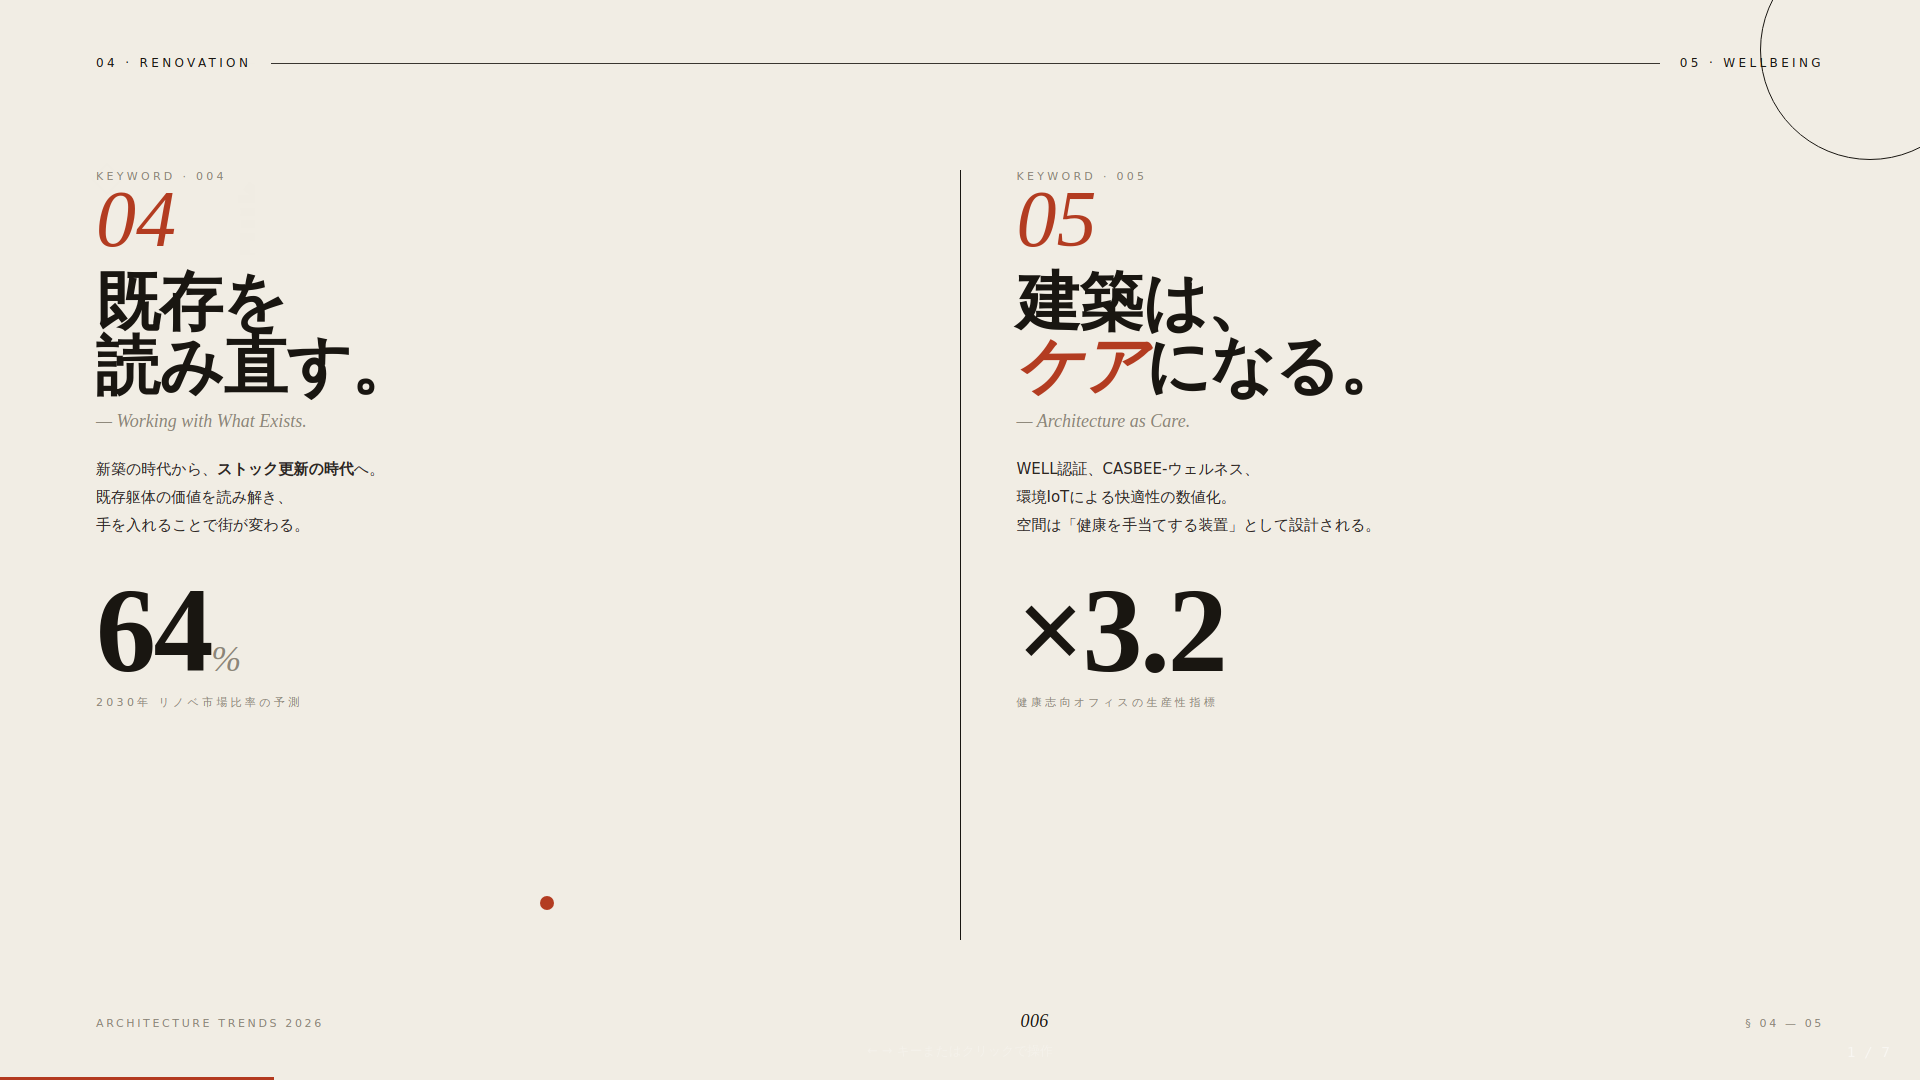
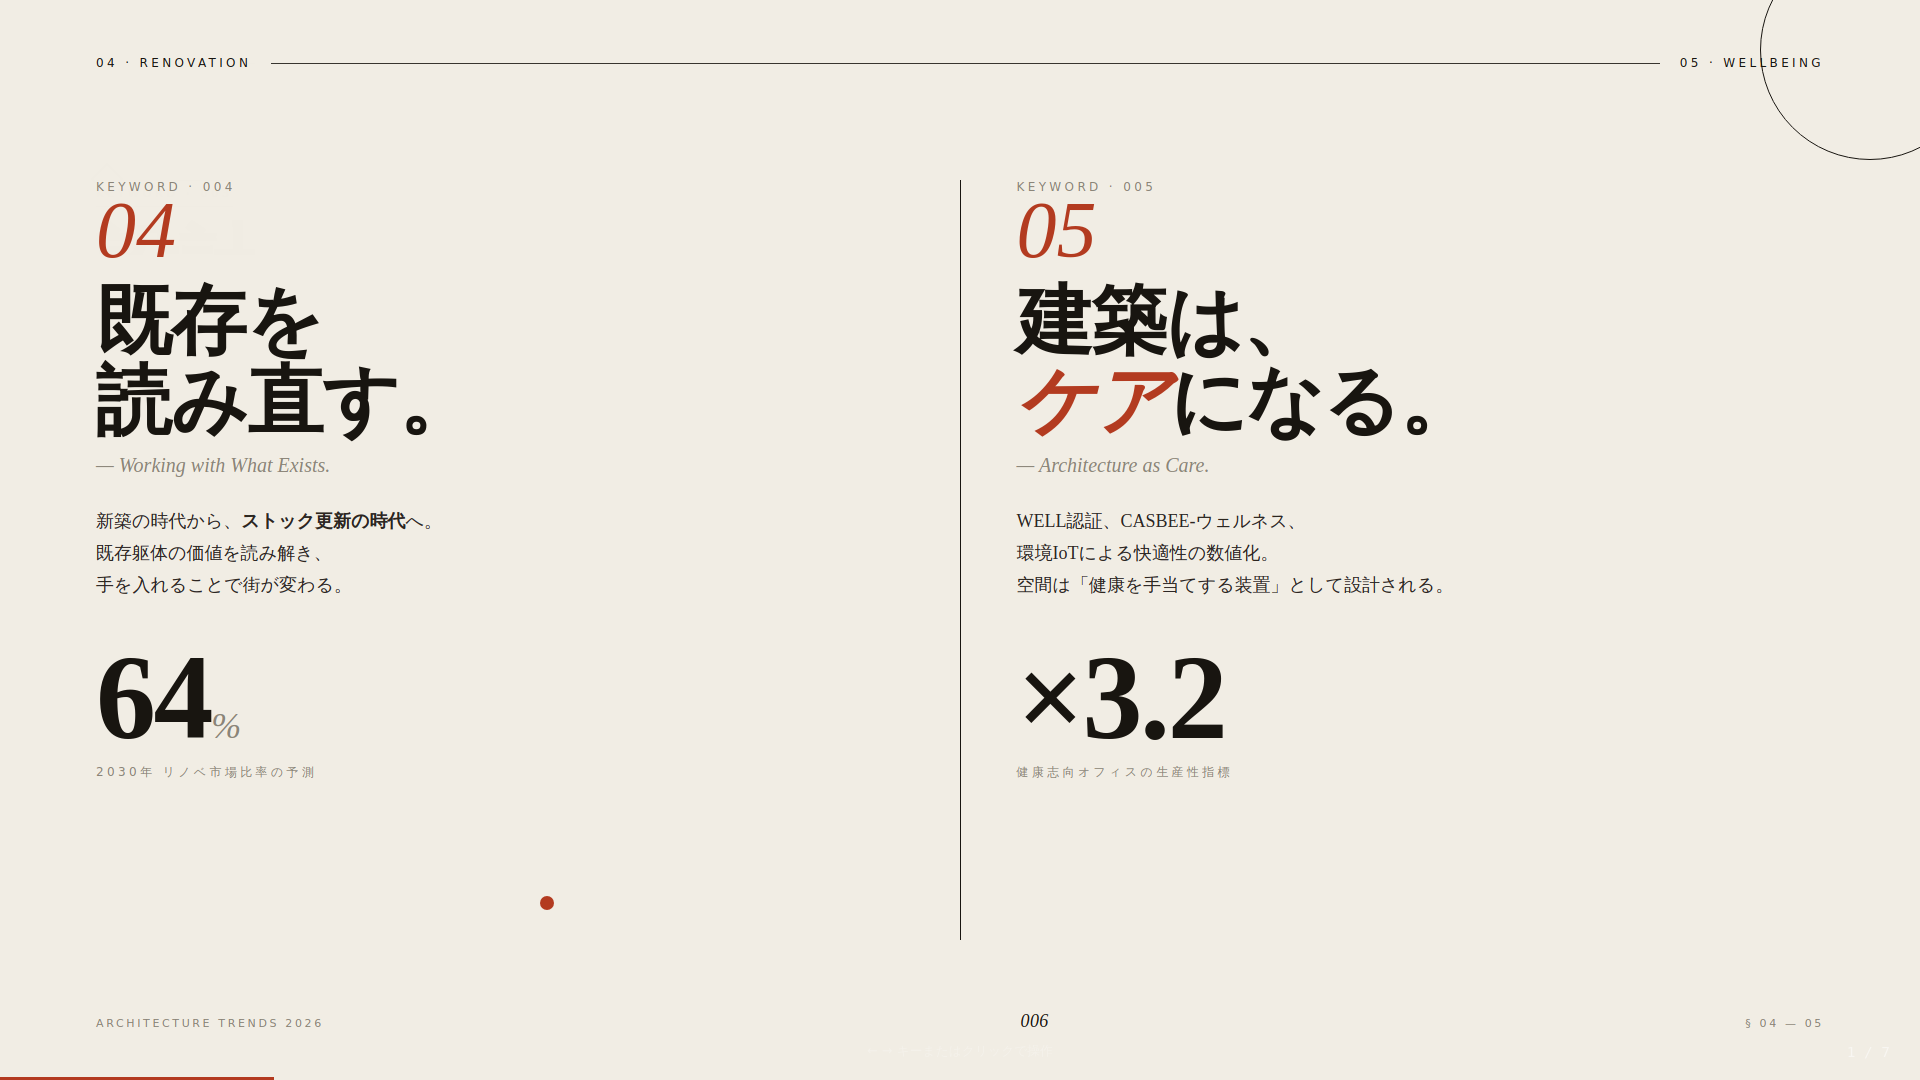
指摘を反映して全スライド整理
- :root に --pad-x/--body-top/--wm-opacity/--line 等の統一変数を追加
- 表紙: № 2026 重複を削除、h1 220px→180px に縮小、sublock は serif 20px で border-top 付き
- 目次: カラム幅詰め、ページ番号 13px uppercase → 24px serif italic に拡大
- 01/02/03 ウォーターマーク透明度を 0.12 で統一
- 全 feature スライドの h2.section を 84px・max-width 1100px で統一
- 02: タイムラインと 18階 に bridge caption を追加、関係性を明示
- 03: 締めコピーを赤アクセント縦ラインで本文と接続、孤立感を解消
- 04/05 spread: h3 を 64→76px で feature 並みに、本文 serif 18px に昇格
- 締め: クレジット重複を整理、1本の rule 線で区切った credit 行に統合
- 棒グラフ、タイムライン、stat 本文を 14-15→16-18px に引き上げ

diff --git a/slides/architecture2026.html b/slides/architecture2026.html
@@ -20,6 +20,13 @@
       --rule:#1a1714;
       --accent:#b33a1f;         /* burnt brick */
       --accent-soft:#e1c9b7;
+      --pad-x:96px;             /* horizontal frame padding */
+      --pad-y:72px;
+      --body-top:180px;         /* top of .body under masthead */
+      --body-bottom:140px;      /* bottom of .body above folio */
+      --wm-opacity:0.12;        /* consistent watermark opacity */
+      --line:1px solid var(--ink);
+      --line-thick:3px solid var(--ink);
       --font-serif:'Noto Serif JP','Playfair Display','Hiragino Mincho ProN','Yu Mincho','YuMincho',serif;
       --font-sans:'Inter','Noto Sans JP','Hiragino Sans','Yu Gothic',system-ui,sans-serif;
     }
@@ -27,11 +34,11 @@
     body{font-family:var(--font-sans);}
 
     .slide, .slide--title, .slide--section{background:var(--paper) !important;}
-    .slide-inner{background:var(--paper) !important;padding:72px 96px;color:var(--ink);}
+    .slide-inner{background:var(--paper) !important;padding:var(--pad-y) var(--pad-x);color:var(--ink);}
 
-    /* Masthead / running header */
+    /* Masthead / running header — unified */
     .masthead{
-      position:absolute;top:56px;left:96px;right:96px;
+      position:absolute;top:56px;left:var(--pad-x);right:var(--pad-x);
       display:flex;justify-content:space-between;align-items:center;
       font-family:var(--font-sans);
       font-size:12px;letter-spacing:0.28em;text-transform:uppercase;
@@ -39,7 +46,7 @@
     }
     .masthead .rule{flex:1;height:1px;background:var(--ink);margin:0 20px;opacity:0.85;}
     .folio{
-      position:absolute;bottom:48px;left:96px;right:96px;
+      position:absolute;bottom:48px;left:var(--pad-x);right:var(--pad-x);
       display:flex;justify-content:space-between;align-items:baseline;
       font-family:var(--font-sans);
       font-size:11px;letter-spacing:0.24em;text-transform:uppercase;color:var(--muted);
@@ -95,88 +102,91 @@
 
     /* ------- Slide 1 : Cover ------- */
     .cover .slide-inner{padding:0;}
-    .cover .masthead{color:var(--ink);}
     .cover .title-block{
-      position:absolute;left:96px;top:220px;right:96px;
+      position:absolute;left:var(--pad-x);top:240px;right:var(--pad-x);
     }
     .cover .eyebrow{
-      font-family:var(--font-serif);font-style:italic;font-size:32px;color:var(--accent);
-      margin-bottom:16px;
+      font-family:var(--font-serif);font-style:italic;font-size:30px;color:var(--accent);
+      margin-bottom:20px;
     }
     .cover h1{
       font-family:var(--font-serif);font-weight:900;
-      font-size:220px;line-height:0.88;letter-spacing:-0.02em;
+      font-size:180px;line-height:0.9;letter-spacing:-0.02em;
       color:var(--ink);
     }
-    .cover h1 .small{font-size:120px;font-style:italic;font-weight:400;}
+    .cover h1 .yr{font-family:var(--font-serif);font-style:italic;font-weight:400;
+      font-size:100px;color:var(--accent);margin-left:10px;}
     .cover .latin{
       font-family:var(--font-serif);font-style:italic;font-weight:400;
-      font-size:64px;color:var(--ink);margin-top:18px;letter-spacing:-0.01em;
+      font-size:56px;color:var(--ink);margin-top:16px;letter-spacing:-0.01em;
     }
     .cover .subblock{
-      position:absolute;left:96px;bottom:160px;max-width:520px;
-      font-family:var(--font-sans);font-size:16px;line-height:1.8;color:#3a342c;
+      position:absolute;left:var(--pad-x);bottom:160px;max-width:560px;
+      font-family:var(--font-serif);font-size:20px;line-height:1.8;color:#2b251e;
+      border-top:var(--line);padding-top:18px;
     }
     .cover .issue{
-      position:absolute;right:96px;bottom:160px;text-align:right;
-      font-family:var(--font-serif);font-style:italic;color:var(--ink);
+      position:absolute;right:var(--pad-x);bottom:160px;text-align:right;
+      font-family:var(--font-sans);color:var(--muted);
+      font-size:12px;letter-spacing:0.28em;text-transform:uppercase;line-height:2;
     }
-    .cover .issue .no{font-size:92px;line-height:0.9;font-weight:400;}
-    .cover .issue .d{font-family:var(--font-sans);font-style:normal;font-size:12px;
-      letter-spacing:0.34em;text-transform:uppercase;color:var(--muted);margin-top:10px;}
 
     /* ------- Slide 2 : Contents ------- */
     .contents .body{
-      position:absolute;left:96px;right:96px;top:180px;bottom:140px;
-      display:grid;grid-template-columns:260px 1fr;gap:80px;
+      position:absolute;left:var(--pad-x);right:var(--pad-x);top:var(--body-top);bottom:var(--body-bottom);
+      display:grid;grid-template-columns:240px 1fr;gap:56px;
     }
     .contents .left h2{
       font-family:var(--font-serif);font-weight:400;font-style:italic;
-      font-size:64px;line-height:1;color:var(--ink);margin-bottom:36px;
+      font-size:56px;line-height:1;color:var(--ink);margin-bottom:20px;
     }
-    .contents .left p{font-size:14px;line-height:1.9;color:#3a342c;max-width:230px;}
-    .toc{border-top:1px solid var(--ink);}
+    .contents .left p{font-family:var(--font-serif);font-size:16px;line-height:1.85;color:#2b251e;max-width:220px;}
+    .toc{border-top:var(--line);align-self:start;}
     .toc .row{
-      display:grid;grid-template-columns:96px 1fr 160px;
-      gap:32px;align-items:baseline;
-      padding:28px 0;border-bottom:1px solid var(--ink);
+      display:grid;grid-template-columns:88px 1fr 110px;
+      gap:28px;align-items:baseline;
+      padding:22px 0;border-bottom:var(--line);
     }
     .toc .n{
       font-family:var(--font-serif);font-style:italic;font-weight:400;
-      font-size:72px;line-height:0.9;color:var(--ink);
+      font-size:64px;line-height:0.9;color:var(--ink);
     }
     .toc .t .ja{
-      font-family:var(--font-serif);font-weight:800;font-size:38px;line-height:1.15;color:var(--ink);
+      font-family:var(--font-serif);font-weight:800;font-size:36px;line-height:1.15;color:var(--ink);
     }
     .toc .t .en{
       font-family:var(--font-serif);font-style:italic;font-size:18px;color:var(--muted);
       margin-top:6px;letter-spacing:0.01em;
     }
     .toc .pg{
-      font-family:var(--font-sans);font-size:13px;letter-spacing:0.3em;text-transform:uppercase;
-      color:var(--muted);text-align:right;
+      font-family:var(--font-serif);font-style:italic;font-size:24px;
+      color:var(--ink);text-align:right;letter-spacing:0;
     }
-    .toc .row:first-child{border-top:3px solid var(--ink);}
+    .toc .row:first-child{border-top:var(--line-thick);}
 
     /* ------- Sectional feature slides ------- */
-    .feature .body{position:absolute;left:96px;right:96px;top:170px;bottom:140px;z-index:2;}
+    .feature .body{position:absolute;left:var(--pad-x);right:var(--pad-x);top:var(--body-top);bottom:var(--body-bottom);z-index:2;}
     /* Giant section number sits as a decorative watermark BEHIND content */
     .feature .numtag{
-      position:absolute;right:40px;top:60px;
+      position:absolute;right:40px;top:80px;
       font-family:var(--font-serif);font-style:italic;font-weight:400;
-      font-size:560px;line-height:0.78;color:var(--accent);
-      opacity:0.14;                    /* watermark, not foreground */
+      font-size:520px;line-height:0.78;color:var(--accent);
+      opacity:var(--wm-opacity);        /* unified */
       pointer-events:none;z-index:0;
       letter-spacing:-0.04em;
     }
     .feature h2.section{
       font-family:var(--font-serif);font-weight:900;
-      font-size:84px;line-height:1.05;color:var(--ink);
-      max-width:900px;letter-spacing:-0.015em;
+      font-size:84px;line-height:1.08;color:var(--ink);
+      max-width:1100px;letter-spacing:-0.015em;
     }
     .feature .en{
       font-family:var(--font-serif);font-style:italic;font-size:22px;color:var(--muted);
-      margin-top:10px;
+      margin-top:12px;
+    }
+    .feature .lede{
+      font-family:var(--font-serif);font-size:22px;line-height:1.75;color:#2b251e;
+      max-width:820px;
     }
 
     /* ------- Slide 3 : 01 Carbon ------- */
@@ -189,95 +199,103 @@
       display:grid;grid-template-columns:1fr 1fr;gap:8px 64px;
     }
     .s-carbon .infobox .cap-full{grid-column:1 / -1;}
-    .bar-row{display:grid;grid-template-columns:1fr auto;align-items:baseline;margin-bottom:14px;}
-    .bar-row .label{font-family:var(--font-serif);font-size:20px;font-weight:600;color:var(--ink);}
-    .bar-row .val{font-family:var(--font-serif);font-style:italic;font-weight:400;font-size:32px;color:var(--ink);}
-    .bar{height:6px;background:var(--paper-2);overflow:hidden;margin-bottom:22px;}
+    .bar-row{display:grid;grid-template-columns:1fr auto;align-items:baseline;margin-bottom:10px;}
+    .bar-row .label{font-family:var(--font-serif);font-size:22px;font-weight:600;color:var(--ink);}
+    .bar-row .val{font-family:var(--font-serif);font-style:italic;font-weight:400;font-size:36px;color:var(--ink);}
+    .bar{height:8px;background:var(--paper-2);overflow:hidden;margin-bottom:24px;}
     .bar > span{display:block;height:100%;background:var(--ink);}
     .bar.accent-bar > span{background:var(--accent);}
 
     /* ------- Slide 4 : 02 Wood ------- */
-    .s-wood .body{display:grid;grid-template-rows:auto 1fr;gap:36px;}
-    .s-wood .top{max-width:900px;}
-    .s-wood .cols{display:grid;grid-template-columns:1fr 1fr;gap:80px;align-items:start;}
+    .s-wood .body{display:grid;grid-template-rows:auto 1fr;gap:28px;}
+    .s-wood .top{max-width:1100px;}
+    .s-wood .cols{display:grid;grid-template-columns:1.1fr 1fr;gap:72px;align-items:start;}
+    .s-wood .hero-cap-top{
+      font-family:var(--font-sans);font-size:11px;letter-spacing:0.3em;text-transform:uppercase;
+      color:var(--muted);margin-bottom:10px;
+    }
     .s-wood .hero{
       font-family:var(--font-serif);font-weight:900;
-      font-size:260px;line-height:0.85;color:var(--ink);letter-spacing:-0.02em;
+      font-size:220px;line-height:0.85;color:var(--ink);letter-spacing:-0.02em;
     }
-    .s-wood .hero .unit{font-size:72px;font-weight:400;font-style:italic;vertical-align:baseline;margin-left:4px;}
+    .s-wood .hero .unit{font-size:64px;font-weight:400;font-style:italic;vertical-align:baseline;margin-left:4px;color:var(--accent);}
     .s-wood .hero-cap{
-      margin-top:22px;font-family:var(--font-serif);font-size:20px;line-height:1.65;color:#2b251e;max-width:460px;border-top:1px solid var(--ink);padding-top:16px;
+      margin-top:18px;font-family:var(--font-serif);font-size:18px;line-height:1.7;color:#2b251e;max-width:460px;border-top:var(--line);padding-top:14px;
+    }
+    .s-wood .bridge{
+      font-family:var(--font-serif);font-style:italic;font-size:18px;color:var(--muted);margin-top:20px;
     }
     .tl{list-style:none;margin-top:6px;}
     .tl li{
-      padding:18px 0;border-bottom:1px solid var(--ink);display:grid;
-      grid-template-columns:140px 1fr;gap:28px;align-items:baseline;
+      padding:14px 0;border-bottom:var(--line);display:grid;
+      grid-template-columns:120px 1fr;gap:24px;align-items:baseline;
     }
-    .tl li:first-child{border-top:1px solid var(--ink);}
-    .tl .y{font-family:var(--font-serif);font-style:italic;font-weight:400;font-size:42px;color:var(--accent);line-height:1;}
-    .tl .txt{font-family:var(--font-sans);font-size:15px;line-height:1.7;color:#2b251e;}
+    .tl li:first-child{border-top:var(--line);}
+    .tl .y{font-family:var(--font-serif);font-style:italic;font-weight:400;font-size:38px;color:var(--accent);line-height:1;}
+    .tl .txt{font-family:var(--font-sans);font-size:16px;line-height:1.7;color:#2b251e;}
     .tl .txt b{font-family:var(--font-serif);font-weight:800;font-size:20px;color:var(--ink);display:block;margin-bottom:4px;}
     .tl li.future .y, .tl li.future .txt b{color:var(--muted);}
 
     /* ------- Slide 5 : 03 AI × BIM ------- */
-    .s-ai .body{display:grid;grid-template-rows:auto 1fr auto;gap:36px;}
+    .s-ai .body{display:grid;grid-template-rows:auto 1fr auto;gap:28px;}
     .s-ai .top{max-width:1100px;}
-    .s-ai .row{display:grid;grid-template-columns:1fr 1fr 1fr;gap:60px;align-self:center;}
-    .stat{border-top:3px solid var(--ink);padding-top:22px;}
+    .s-ai .row{display:grid;grid-template-columns:1fr 1fr 1fr;gap:56px;align-self:center;}
+    .stat{border-top:var(--line-thick);padding-top:20px;}
     .stat .n{
-      font-family:var(--font-serif);font-weight:900;font-size:150px;line-height:0.9;letter-spacing:-0.03em;color:var(--ink);
+      font-family:var(--font-serif);font-weight:900;font-size:140px;line-height:0.9;letter-spacing:-0.03em;color:var(--ink);
     }
-    .stat .n .u{font-size:54px;font-weight:400;font-style:italic;color:var(--muted);margin-left:4px;}
+    .stat .n .u{font-size:52px;font-weight:400;font-style:italic;color:var(--muted);margin-left:4px;}
     .stat .n.accent{color:var(--accent);}
     .stat h3{
       font-family:var(--font-serif);font-weight:800;font-size:28px;margin-top:10px;color:var(--ink);
     }
-    .stat p{font-family:var(--font-sans);font-size:14px;line-height:1.75;color:#2b251e;margin-top:8px;max-width:320px;}
+    .stat p{font-family:var(--font-sans);font-size:16px;line-height:1.75;color:#2b251e;margin-top:10px;max-width:320px;}
     .s-ai .foot{
-      font-family:var(--font-serif);font-style:italic;font-size:22px;color:#2b251e;max-width:1000px;
-      border-top:1px solid var(--ink);padding-top:16px;
+      font-family:var(--font-serif);font-style:italic;font-size:22px;color:#2b251e;max-width:1200px;
+      padding-top:0;padding-left:20px;border-left:3px solid var(--accent);
     }
 
     /* ------- Slide 6 : 04 + 05 spread ------- */
     .spread .body{
-      position:absolute;left:96px;right:96px;top:170px;bottom:140px;
+      position:absolute;left:var(--pad-x);right:var(--pad-x);top:var(--body-top);bottom:var(--body-bottom);
       display:grid;grid-template-columns:1fr 1px 1fr;gap:56px;
     }
     .spread .rule{background:var(--ink);}
     .spread .col h3{
-      font-family:var(--font-serif);font-weight:900;font-size:64px;line-height:1;color:var(--ink);
+      font-family:var(--font-serif);font-weight:900;font-size:76px;line-height:1.05;color:var(--ink);
       margin:16px 0 12px;letter-spacing:-0.015em;
     }
-    .spread .col .en{font-family:var(--font-serif);font-style:italic;font-size:18px;color:var(--muted);margin-bottom:24px;}
+    .spread .col .en{font-family:var(--font-serif);font-style:italic;font-size:20px;color:var(--muted);margin-bottom:28px;}
     .spread .col .num{
       font-family:var(--font-serif);font-style:italic;font-weight:400;font-size:80px;line-height:0.9;color:var(--accent);
     }
-    .spread .col p{font-family:var(--font-sans);font-size:15px;line-height:1.85;color:#2b251e;max-width:420px;}
+    .spread .col p{font-family:var(--font-serif);font-size:18px;line-height:1.8;color:#2b251e;max-width:460px;}
     .bignum{
       font-family:var(--font-serif);font-weight:900;font-size:120px;line-height:1;color:var(--ink);
-      letter-spacing:-0.02em;margin:32px 0 4px;
+      letter-spacing:-0.02em;margin:36px 0 6px;
     }
     .bignum .u{font-size:36px;font-weight:400;font-style:italic;color:var(--muted);}
-    .smallcaps{font-family:var(--font-sans);font-size:11px;letter-spacing:0.3em;text-transform:uppercase;color:var(--muted);}
+    .smallcaps{font-family:var(--font-sans);font-size:12px;letter-spacing:0.28em;text-transform:uppercase;color:var(--muted);}
 
     /* ------- Slide 7 : Closing ------- */
     .closing .slide-inner{padding:0;}
     .closing .block{
-      position:absolute;left:96px;right:96px;top:200px;
+      position:absolute;left:var(--pad-x);right:var(--pad-x);top:220px;
     }
     .closing .quote{
       font-family:var(--font-serif);font-weight:400;font-style:italic;
-      font-size:110px;line-height:1.1;letter-spacing:-0.015em;color:var(--ink);
+      font-size:104px;line-height:1.15;letter-spacing:-0.015em;color:var(--ink);
       max-width:1500px;
     }
     .closing .quote b{font-weight:900;font-style:normal;}
     .closing .quote .mark{color:var(--accent);}
     .closing .credits{
-      position:absolute;left:96px;right:96px;bottom:140px;
+      position:absolute;left:var(--pad-x);right:var(--pad-x);bottom:140px;
       display:flex;justify-content:space-between;align-items:flex-end;
+      border-top:var(--line);padding-top:20px;
     }
     .closing .credits .sig{
-      font-family:var(--font-serif);font-style:italic;font-size:28px;color:var(--ink);
+      font-family:var(--font-serif);font-style:italic;font-size:22px;color:var(--ink);
     }
     .closing .credits .meta{
       font-family:var(--font-sans);font-size:12px;letter-spacing:0.28em;text-transform:uppercase;color:var(--muted);line-height:2;
@@ -312,8 +330,8 @@
       <div class="dot-grid" style="left:96px;top:140px;width:280px;height:140px;"></div>
 
       <div class="title-block">
-        <div class="eyebrow">— これからの建築を、7つの視座で。</div>
-        <h1>建築<br>トレンド<br><span class="small italic accent">2026.</span></h1>
+        <div class="eyebrow">— これからの建築を、5つの視座で。</div>
+        <h1>建築<br>トレンド<span class="yr italic">2026.</span></h1>
         <div class="latin italic">Architecture&nbsp;/&nbsp;Trends</div>
       </div>
 
@@ -323,8 +341,9 @@
       </div>
 
       <div class="issue">
-        <div class="no italic">№ 2026</div>
-        <div class="d">Published&nbsp;·&nbsp;2026.03.30</div>
+        Vol. 01&nbsp;·&nbsp;№ 001<br>
+        Published&nbsp;2026.03.30<br>
+        Tokyo
       </div>
 
       <div class="folio">
@@ -469,9 +488,10 @@
           </div>
 
           <div>
+            <div class="hero-cap-top">2030年へ向かう、その到達点</div>
             <div class="hero">18<span class="unit italic">階</span></div>
             <div class="hero-cap">
-              2025年、国内最高の木造ビル。CLTとRC造のハイブリッドで、木は「風合い」から「骨格」へ還る。
+              2025年、国内最高の木造ビル。CLTとRC造のハイブリッドで、木は「風合い」から「骨格」へ還った。
             </div>
           </div>
         </div>
@@ -607,11 +627,10 @@
       </div>
 
       <div class="credits">
-        <div class="sig italic">— Architecture&nbsp;/&nbsp;Trends, 2026.</div>
+        <div class="sig italic">— Architecture&nbsp;/&nbsp;Trends, Vol. 01</div>
         <div class="meta">
           Edited&nbsp;&amp;&nbsp;Published<br>
-          2026.03.30&nbsp;·&nbsp;Tokyo<br>
-          Vol. 01&nbsp;·&nbsp;№ 001
+          2026.03.30&nbsp;·&nbsp;Tokyo
         </div>
       </div>
 
